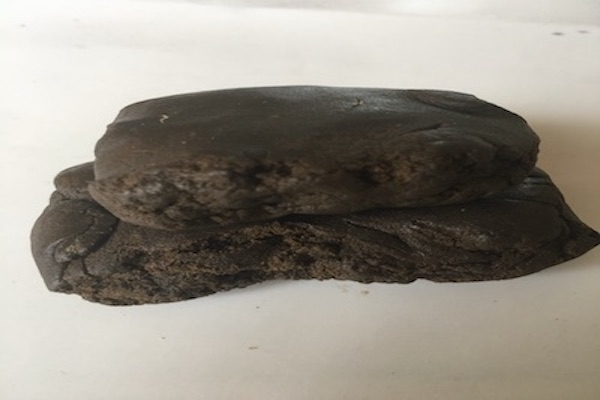
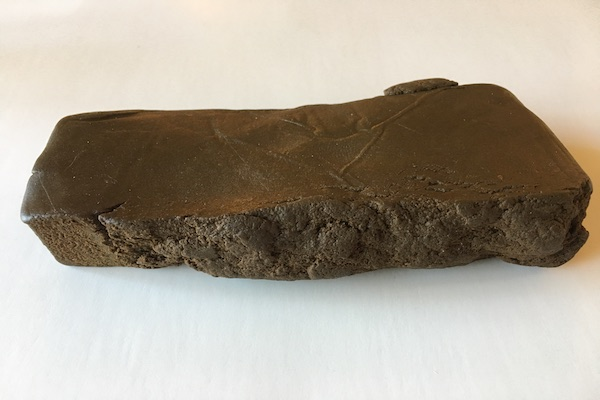
bitcoin image

diff --git a/css/phones.css b/css/phones.css
@@ -365,6 +365,21 @@
   border-radius: 10px;
 }
 
+#romeo {
+  width: 75%;
+  background-color: black;
+  border-radius: 13px; /* (height of inner div) / 2 + padding */
+  padding: 3px;
+  margin: 0 auto 0 auto;
+}
+
+#romeo > div {
+  background-color: #C9DF78;
+  width: 100%; /* Adjust with JavaScript */
+  height: 20px;
+  border-radius: 10px;
+}
+
 div h1.pickOTW {
   color: #DE28A9;
   font-size: 40px;

diff --git a/content/hash.php b/content/hash.php
@@ -19,6 +19,24 @@
                     <div class="hashThumbnail">
                         <div class="hashImageDiv">
 				<div class="new">new</div>
+                                <img src= "../images/romeo.JPG" alt="Romeo">
+                        </div>
+                        <h3 class="hashItemTitle" id="">Romeo & Juliet</h3>
+                        <div class="hashPrice">
+                            $15<span> Gram</span> / 5 <span>for</span> $65 
+                            <p>soft, sweet, good taste</p>
+                        </div>
+                        <div id="romeo">
+                            <div></div>
+                        </div>
+                        <p class="inventoryPTag">inventory</p>
+                    </div>
+                </div>
+
+		<div class="hashBox col-lg-6 col-md-6">
+                    <div class="hashThumbnail">
+                        <div class="hashImageDiv">
+				<div class="new">new</div>
                                 <img src= "../images/trident.JPG" alt="Shetral">
                         </div>
                         <h3 class="hashItemTitle" id="">Trident</h3>

diff --git a/content/specials.php b/content/specials.php
@@ -7,10 +7,12 @@
             <div class="glass"></div>
     </div>
 
-
+        
 
 
     <div contenteditable="false" class="chalkboardbody">
+    
+	
 	<br>
        <h1 class="pickOTW">Picks Of The Week:</h1>
        <p>For a limited time, every week we will put 2 of our regular priced strains
@@ -106,7 +108,11 @@
         <br>
 
 	
-
+	<a href="http://haligrove.com/images/bitcoin.png" style="hieght: 120px; width: 120px">
+        <div class="bitcoin">
+	  <img src="../images/bitcoinAccepted.png" style="hieght: 120px; width: 120px">
+        </div>
+        </a>
         
 
         

diff --git a/index.php b/index.php
@@ -23,10 +23,10 @@
           <!-- Wrapper for slides -->
           <div class="carousel-inner">
 	   <div class="item active">
-		<a href="content/hash.php"><img src="images/tridentAd.JPG" alt="">
+		<a href="content/hash.php"><img src="images/romeoAd.JPG" alt="">
                 
                 <div class="carousel-caption">
-                    <h3>New Trident Hash</h3>
+                    <h3>New Romeo & Juliet</h3>
 		    <p>3 for $40<br>5 for $65<br>10 for $125</p>
                 </div>
               </a>
